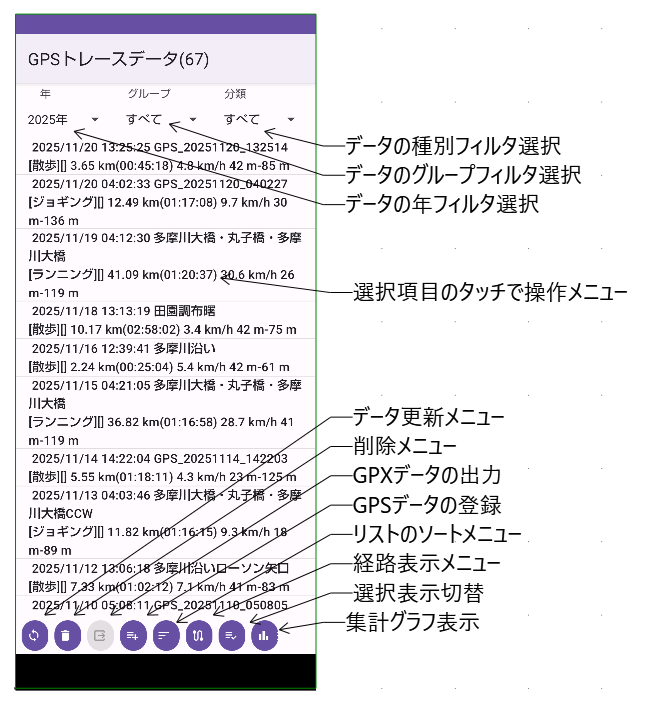
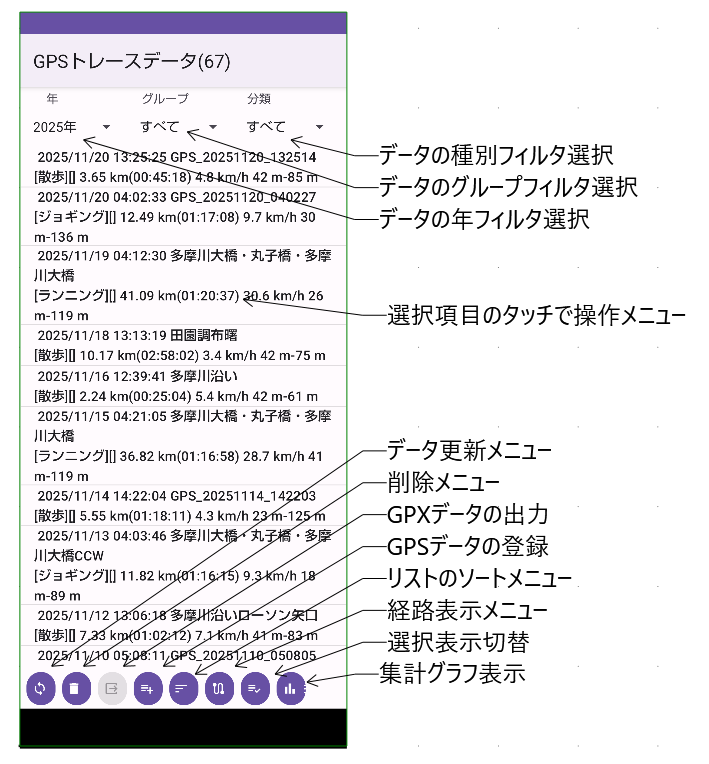
予測時間の設定追加、Readmeの修正

Changed region(s): [[0.0, 0.0, 0.9509, 0.9958]]

diff --git a/src/main/java/co/jp/yoshida/mapapp/MainActivity.kt b/src/main/java/co/jp/yoshida/mapapp/MainActivity.kt
@@ -604,7 +604,32 @@ class MainActivity : AppCompatActivity() {
         btGpsTraceList.setOnClickListener {
             goGpsTraceList()
         }
+
+        //  時刻設定の地図データの予測時間切り替え
+        btClockInc.setOnClickListener {
+            var timeString = mutableListOf<String>()
+            var countMax = if (30 <= mMapData.mMapInfoData.mDateTimeInterval) 16
+            else 60 / mMapData.mMapInfoData.mDateTimeInterval
+            for (i in -1..countMax) {
+                var addtime = i * mMapData.mMapInfoData.mDateTimeInterval
+                var timeStr = if (30 <= mMapData.mMapInfoData.mDateTimeInterval) (addtime / 60).toString() + "時間後"
+                else addtime.toString() + "分後"
+                timeString.add(timeStr)
+            }
+            klib.setMenuDialog(this, "予測時間", timeString, iTimeIncSelectOperation)
+        }
     }
+
+    //  時刻設定の地図データの予測時間設定
+    @RequiresApi(Build.VERSION_CODES.O)
+    var iTimeIncSelectOperation = Consumer<String> { s ->
+        Toast.makeText(this, s, Toast.LENGTH_LONG).show()
+        var addtime = klib.str2Integer(s) * if (0 <= s.indexOf("時間")) 60 else 1
+        mMapData.mMapInfoData.mDateTimeInc = addtime / mMapData.mMapInfoData.mDateTimeInterval
+        mapInit()
+        mapDisp(mMapDataDownLoadMode)
+    }
+
 
     /**
      * 地図データのタイトルをSpnnerに設定

diff --git a/Readme.md b/Readme.md
@@ -1,18 +1,20 @@
 ## いろんな地図(MapApp) - 地図表示
 
+国土地理院で公開している地図を主体にいろいろな地図を表示する。  
+あらかじめ登録している以外の地図も登録でき、地図同士の重ね合わせを行うことができる。  
+GPSのトレース機能も併せ持つ。  
 旧版のMapAppを新しい開発環境(Android Studio Narwhal)で再作成。  
 大きな変更はGPSデータファイルなどを共通ストレージ(/strage/emulated/0/DCIM/mapapp)に変更、あと細かいところを修正。  
 文末にインストール方法を記載している。  
 
 ### 機能
 ・国土地理院の地図データなどをいろいろな地図を表示する  
+・地図同士の重ね合わせが可能で、気象庁の雨雲の動きや地滑り地形分布図の表示が可能
 ・GPSデータを取得して異動した経路を表示する  
-・GPSのトレースデータを一覧で管理する  
-・GPSのトレースデータをタイトルやコメントなど情報をつけてかんりする  
+・GPSのトレースデータをタイトルやコメントなど情報をつけて一覧で管理できる。  
 ・GPSトレースデータを速度/距離、標高/距離などのグラフ表示をする  
-・GPSのトレースデータをGPXファイルとして出力できる  
-・他のGPXファイルのデータを地図上に表示する  
-
+・マークの登録ができ、塘路位置への地図の移動ができる。  
+・写真に位置情報が記録されていれば写真の撮影値を地図上に示すことができる。  
 
 ### 起動画面
 <img src="image/MapApp_MainOpe.png" width="80%">
@@ -22,23 +24,24 @@
 
 
 ### 地図リスト選択
+登録されている地図の種類  
 <img src="image/MapApp_MapList.png" width="60%">
 
 ### オプションリスト選択
 <img src="image/MapApp_OptionMenu.png" width="60%">
 
-#### オプションメニュー
-**地図情報** : 現在地をグーグルマップで開く  
-**登録画面** :  
-**GPSトレースリスト** :  
-**マーク操作** : 目的地をグーグルマップで開く  
-**写真の位置** : 設定画面を開く  
-**地図データ一括取込み** : 
-**オフライン** :  
-**地図データ編集** : 
-**アプリデータ情報** :    
-**ストレージパーミッション** :  
-**アプリケーションパーミッション** :  
+#### 右上のオプションボタンで使用できる機能  
+**地図情報** : 表示中の地図の情報を表示  
+**登録画面** : 表示画面の登録と呼び出し  
+**GPSトレースリスト** :  GPSトレースリストの表示  
+**マーク操作** : マークの登録や位置表示などのメニュー  
+**写真の位置** : 選択した写真の位置に移動  
+**地図データ一括取込み** : 表示画面の地図データをズームで3段階分をまとめて読み込む
+**オフライン** : 地図データの新規取得を停止   
+**地図データ編集** : 地図データの設定の変更や新規地図データの登録  
+**アプリデータ情報** :  取得した地図データの数(セル数)とそのサイズを表示    
+**ストレージパーミッション** :  アプリのストレージの許可状態を表示  
+**アプリケーションパーミッション** :  アプリの権限の許可状態を表示  
 
 ### 標準地図
 <img src="image/MapApp_Main_標準地図.png" width="60%">
@@ -50,9 +53,11 @@
 <img src="image/MapApp_Main_航空写真.png" width="60%">
 
 ### 気象庁の雨雲の動きと白地図の重ね合わせ
+気象庁の雨雲の動きと白地図の重ね合わせたもので時間の設定もできる  
 <img src="image/MapApp_Main_雨雲の動き.png" width="60%">
 
-### 20万分の1日本シームレス地質図
+### 地質図
+日本全国の地質図をタイル表示したものでズームレベル3～13で表示できる。  
 凡例ファイル(data/legend_seamless_v2.csv)を内部ストレージのDCIM/MapAppのフォルダに入れると地質名が表示できる  
 <img src="image/MapApp_Main_日本シームレス地質図.png" width="60%">
 
@@ -69,7 +74,7 @@
 <img src="image/MapApp_GPSTraceListGraphOpe.png" width="80%">
 
 ### GPSトレースリストの操作メニュー
-<img src="image/MapApp_GPSTraceListMenu.png" width="60%">
+<img src="image/MapApp_GPSTraceListMenuOpe.png" width="60%">
 
 ### GPSトレースファイルの登録編集
 <img src="image/MapApp_GPSTraceEditOpe.png" width="80%">
@@ -78,7 +83,7 @@
 <img src="image/MapApp_GpsTraceGraph.png" width="60%">
 
 ### マークデータの編集画面
-<img src="image/MapApp_MarkEdit.png" width="60%">
+<img src="image/MapApp_MarkEditOpe.png" width="60%">
 
 #### インストール方法
 実行ファイルのダウンロードは[mapapp-debug.apk](mapapp-debug.apk)をダウンロードする。  
@@ -104,7 +109,8 @@ Filesアプリでダウンロードしたファイル(mapapp-debug.apk)をタッ
 
 
 履歴  
-2025+11/20 GPSトレースリストのグラフ化を追加  
+2025/11/22 「雨雲の動き」の予測時間を追加
+2025/11/20 GPSトレースリストのグラフ化を追加  
 2025/11/06 無段階の地図拡大縮小に対応、タッチ操作による地図の移動ズームに対応  
 2025/11/06 地図データの一括ダウンロードを非同期処理に変更  
 2025/10/15 GPSトレース開始時にBeep音追加、GPSトレースグラフに歩数を追加  
